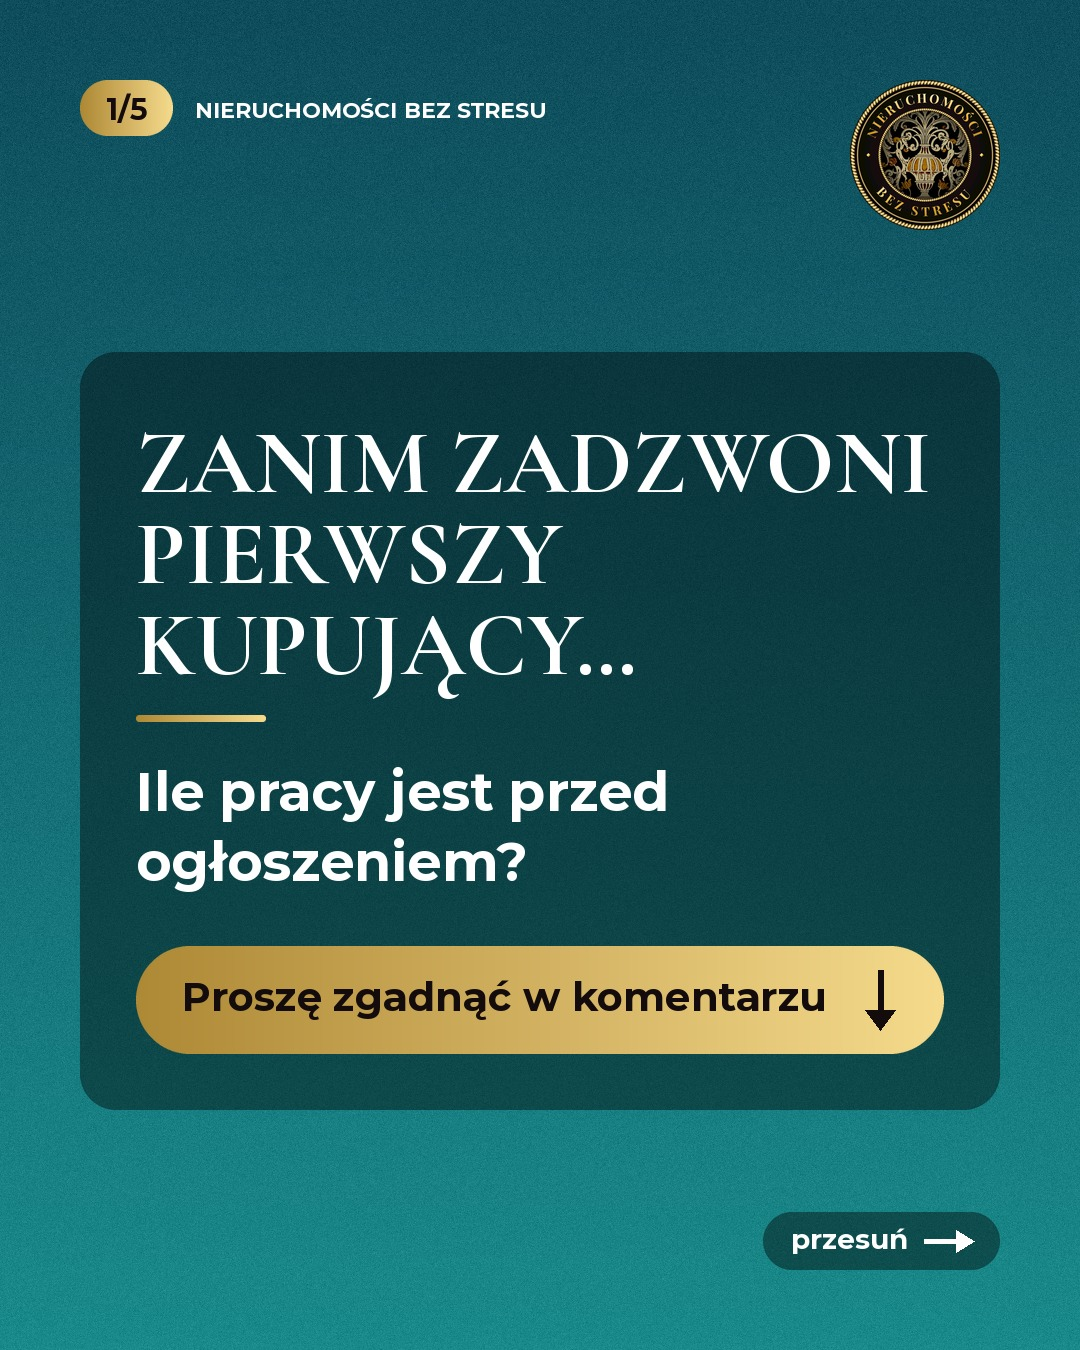
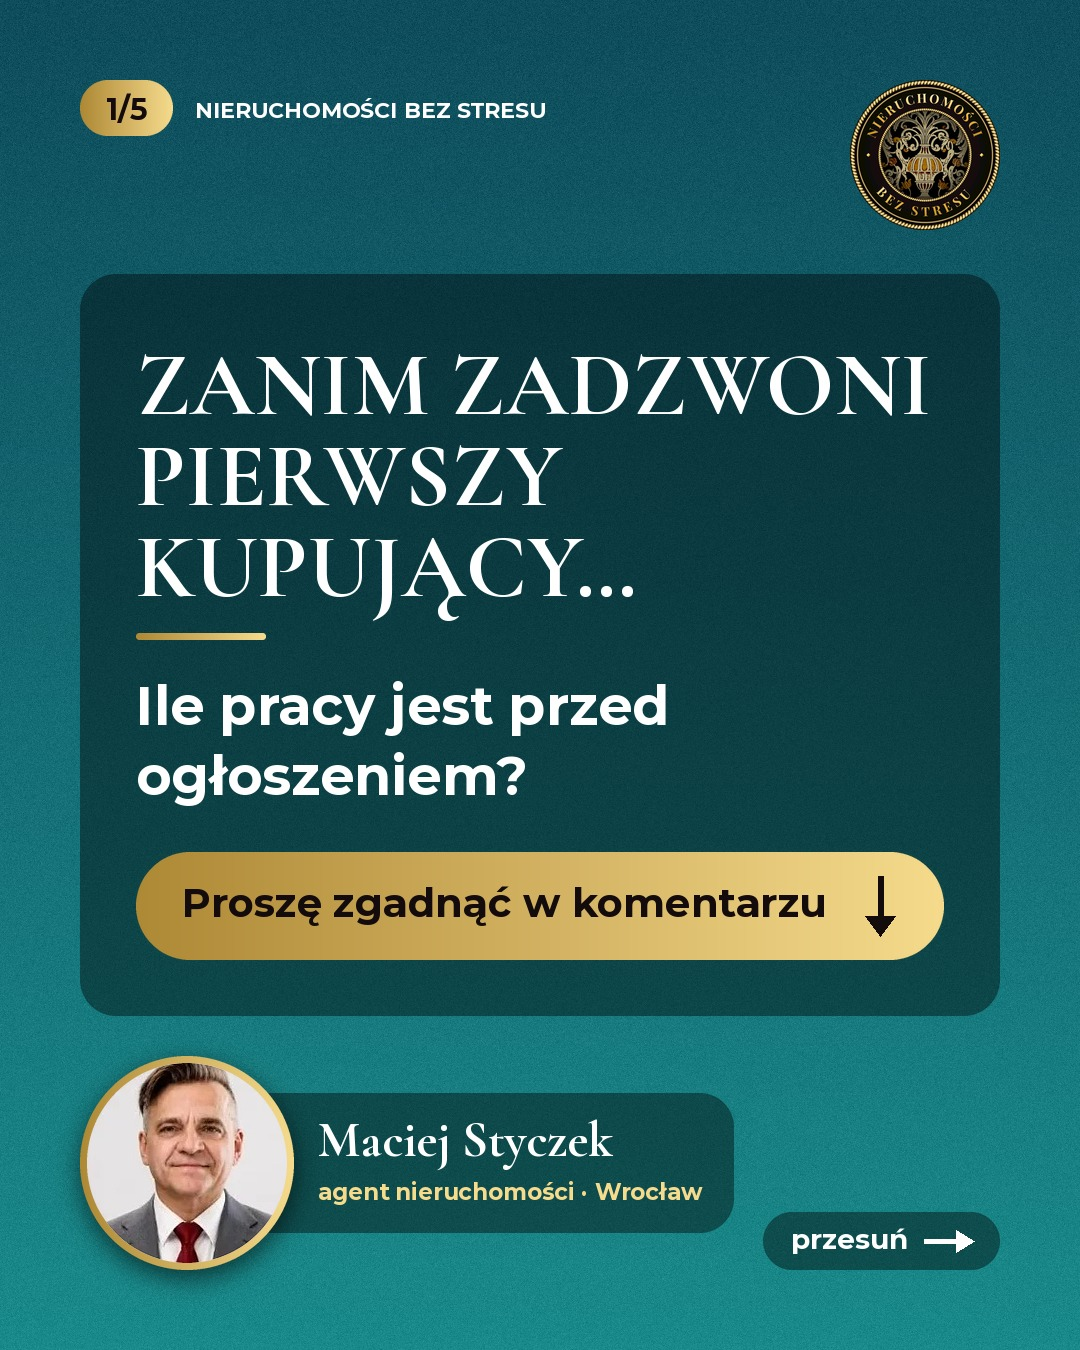
Dodaj portret Macieja na pierwszy i ostatni slajd karuzel
Claude-Session: https://claude.ai/code/session_016CSz72ixcAJkDnqqqfxwXU

diff --git a/posty/karuzele-agent/generuj_karuzele.py b/posty/karuzele-agent/generuj_karuzele.py
@@ -2,7 +2,7 @@
 # gradient pionowy + ziarno, teksty na półprzezroczystych kartach, złote akcenty.
 # Baza: posty/2026-11-niedziele-prezentacje/generuj_karuzele.py (hexrgb/lum/contrast, fit, logo, plansza końcowa).
 # Uruchom: python3 posty/karuzele-agent/generuj_karuzele.py [ścieżka-siatki.jpg]
-from PIL import Image, ImageDraw, ImageFont
+from PIL import Image, ImageDraw, ImageFilter, ImageFont
 import numpy as np
 import os
 import re
@@ -16,6 +16,7 @@ M700 = os.path.join(FD, 'montserrat-700.ttf')
 LOGO_CIEMNE = os.path.join(REPO, 'assets', 'logo', 'logo-ciemne-tlo.webp')
 LOGO_JASNE = os.path.join(REPO, 'assets', 'logo', 'logo-jasne-tlo.webp')
 BANER = os.path.join(REPO, 'assets', 'baner', 'baner-kontakt.webp')
+PORTRET = os.path.join(REPO, 'assets', 'portret', 'maciej-portret.jpg')
 OUT = os.path.dirname(os.path.abspath(__file__))
 
 W, H, M = 1080, 1350, 80
@@ -158,6 +159,34 @@ def logo(size, under):
     mask = mask.resize((size, size), Image.LANCZOS)
     alpha = Image.composite(im.getchannel('A'), Image.new('L', (size, size), 0), mask)
     return im.convert('RGB'), alpha
+
+
+def portrait(img, cx, cy, dia, ring=7):
+    """Okrągły portret w złotej obwódce (gradient marki) z delikatnym cieniem; zwraca bbox."""
+    x0, y0 = int(cx - dia / 2), int(cy - dia / 2)
+    sh = Image.new('L', (W, H), 0)
+    ImageDraw.Draw(sh).ellipse((x0, y0 + 8, x0 + dia, y0 + dia + 8), fill=150)
+    img.paste((0, 0, 0), (0, 0), sh.filter(ImageFilter.GaussianBlur(12)))
+    gold_shape(img, (x0, y0, x0 + dia, y0 + dia))
+    src = Image.open(PORTRET).convert('RGB')
+    di = dia - 2 * ring
+    assert di <= src.width * 1.3, 'portret powiększony ponad 1,3x'
+    ph = src.resize((di, di), Image.LANCZOS).filter(ImageFilter.UnsharpMask(1, 30, 2))
+    img.paste(ph, (x0 + ring, y0 + ring), rmask(di, di, di // 2))
+    return x0, y0, x0 + dia, y0 + dia
+
+
+def signature(img, d, x, cy, card_x0, card_x1=None):
+    """Podpis „Maciej Styczek / agent nieruchomości · Wrocław” na ciemnej karcie (kontrast na jasnym gradiencie)."""
+    fn, fs = F(SERIF, 50), F(M700, 23)
+    name, role = 'Maciej Styczek', 'agent nieruchomości · Wrocław'
+    hn, hs, gap = 50, 26, 12
+    top = cy - (hn + gap + hs) / 2
+    x1 = card_x1 if card_x1 is not None else x + max(tw(fn, name), tw(fs, role)) + 32
+    card(img, (card_x0, top - 26, x1, top + hn + gap + hs + 26), r=34)
+    bn, bs = d.textbbox((0, 0), name, font=fn, features=feat(fn)), d.textbbox((0, 0), role, font=fs)
+    txts(img, d, [((x, top - bn[1]), name, fn, WHITE), ((x, top + hn + gap - bs[1]), role, fs, GOLD_L)])
+    return x1
 
 
 # ---------- ikony zamiast emoji (font nie ma emoji) ----------
@@ -349,7 +378,7 @@ def render(k, n, spec):
     kind = spec[0]
     if kind == 'hook':
         _, head, sub, cta, icon = spec
-        top = header(img, d, n, k) + 60
+        top = header(img, d, n, k) + 40
         # „przesuń” w ciemnej pigułce, prawy dolny róg
         fs = F(M700, 28)
         pw, ph = int(tw(fs, 'przesuń')) + 120, 58
@@ -358,15 +387,27 @@ def render(k, n, spec):
         bb = d.textbbox((0, 0), 'przesuń', font=fs)
         txt(img, d, (x0 + 28, y0 + (ph - (bb[3] - bb[1])) / 2 - bb[1]), 'przesuń', fs, WHITE)
         arrow_right(d, x0 + pw - 76, y0 + ph / 2, 46, WHITE)
-        stack(img, d, [[Hd(head, 108, 60, 330), G(34), R(), G(36), T(sub, M700, 54, 36), G(48), CTA(cta, icon)]],
-              top, y0 - 40)
+        dia = 214
+        pcx, pcy = M + dia / 2, H - M - dia / 2
+        sx1 = signature(img, d, M + dia + 24, pcy, pcx)
+        assert sx1 <= x0 - 20, 'podpis nachodzi na „przesuń”'
+        portrait(img, pcx, pcy, dia)
+        bottom = H - M - dia - 36
+        rest = [G(30), R(), G(32), T(sub, M700, 54, 36), G(40), CTA(cta, icon)]
+        stack(img, d, [[Hd(head, 108, 60, min(330, bottom - top - 2 * PAD - sum(b[0] for b in rest)))] + rest],
+              top, bottom)
     elif kind == 'end':
         _, q, sub = spec
-        top = header(img, d, n, k, corner_logo=False) + 50
+        header(img, d, n, k, corner_logo=False)
+        dia = 232
+        pcx, pcy = W - M - dia / 2, M + dia / 2
+        signature(img, d, M + 36, pcy + 34, M, pcx)
+        portrait(img, pcx, pcy, dia)
+        top = M + dia + 36
         cy0 = endboard(img, d)
-        blocks = [Hd(q, 84, 50, 260)]
-        if sub:
-            blocks += [G(30), R(), G(32), T(sub, M500, 46, 30)]
+        rest = [G(30), R(), G(32), T(sub, M500, 46, 30)] if sub else []
+        # nagłówek dostaje tyle miejsca, ile zostaje między portretem a planszą końcową
+        blocks = [Hd(q, 84, 50, min(260, cy0 - 40 - top - 2 * PAD - sum(b[0] for b in rest)))] + rest
         stack(img, d, [blocks], top, cy0 - 40)
     else:
         top = header(img, d, n, k) + 60
